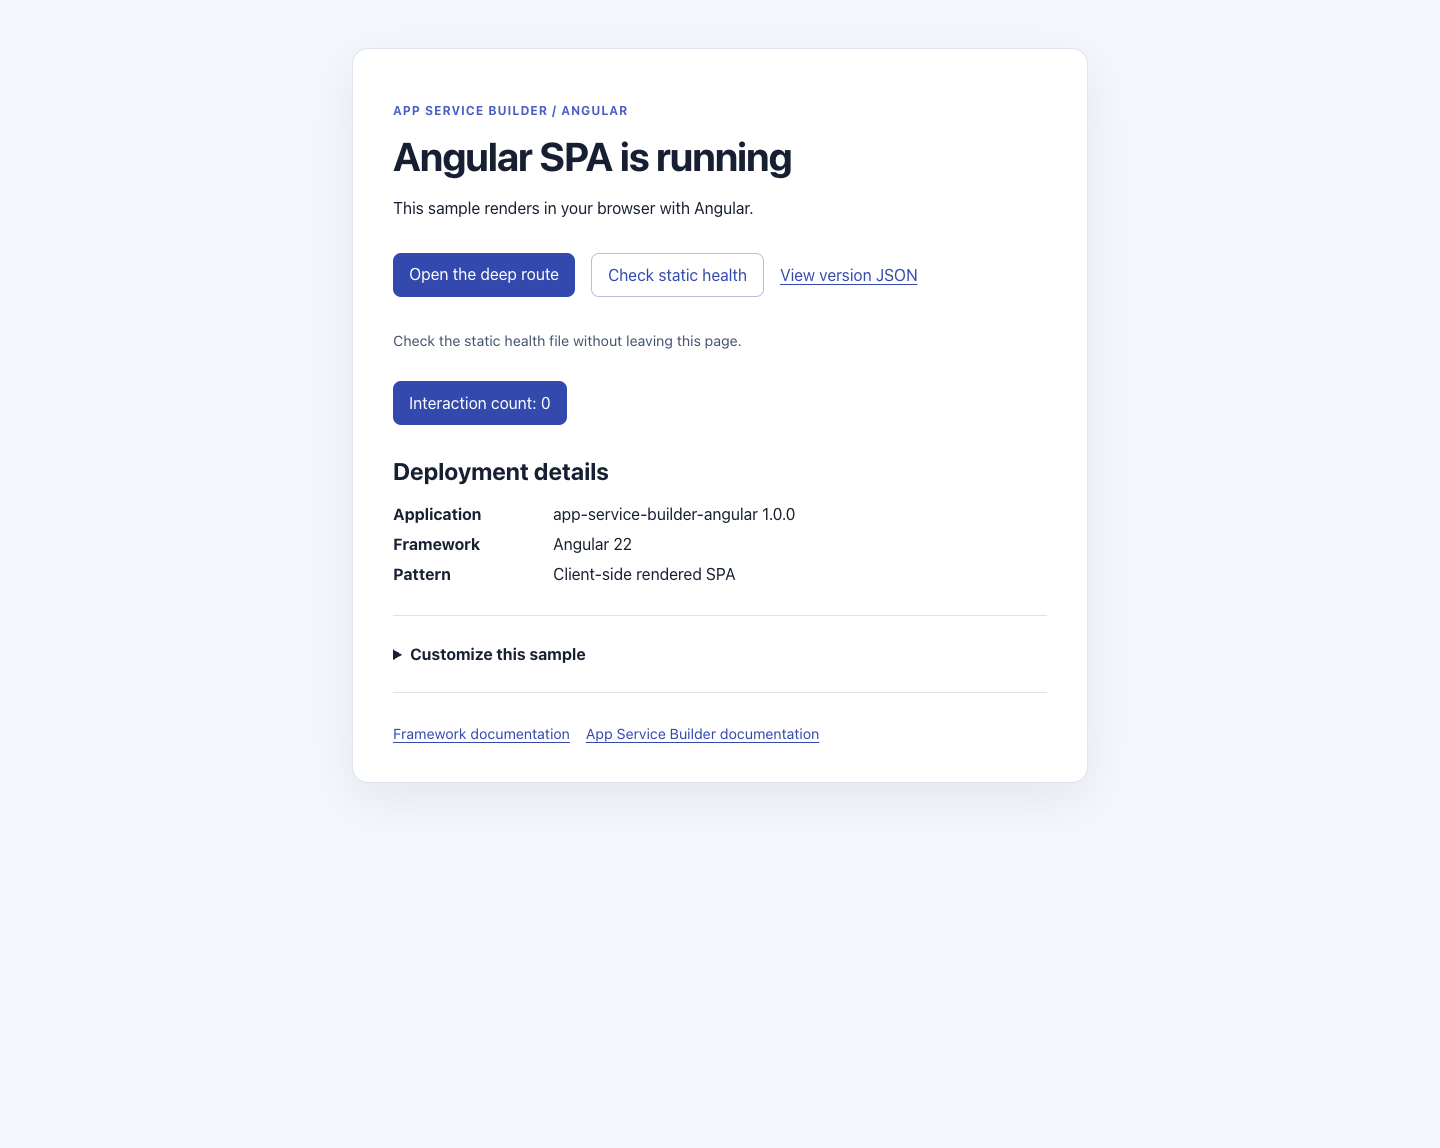
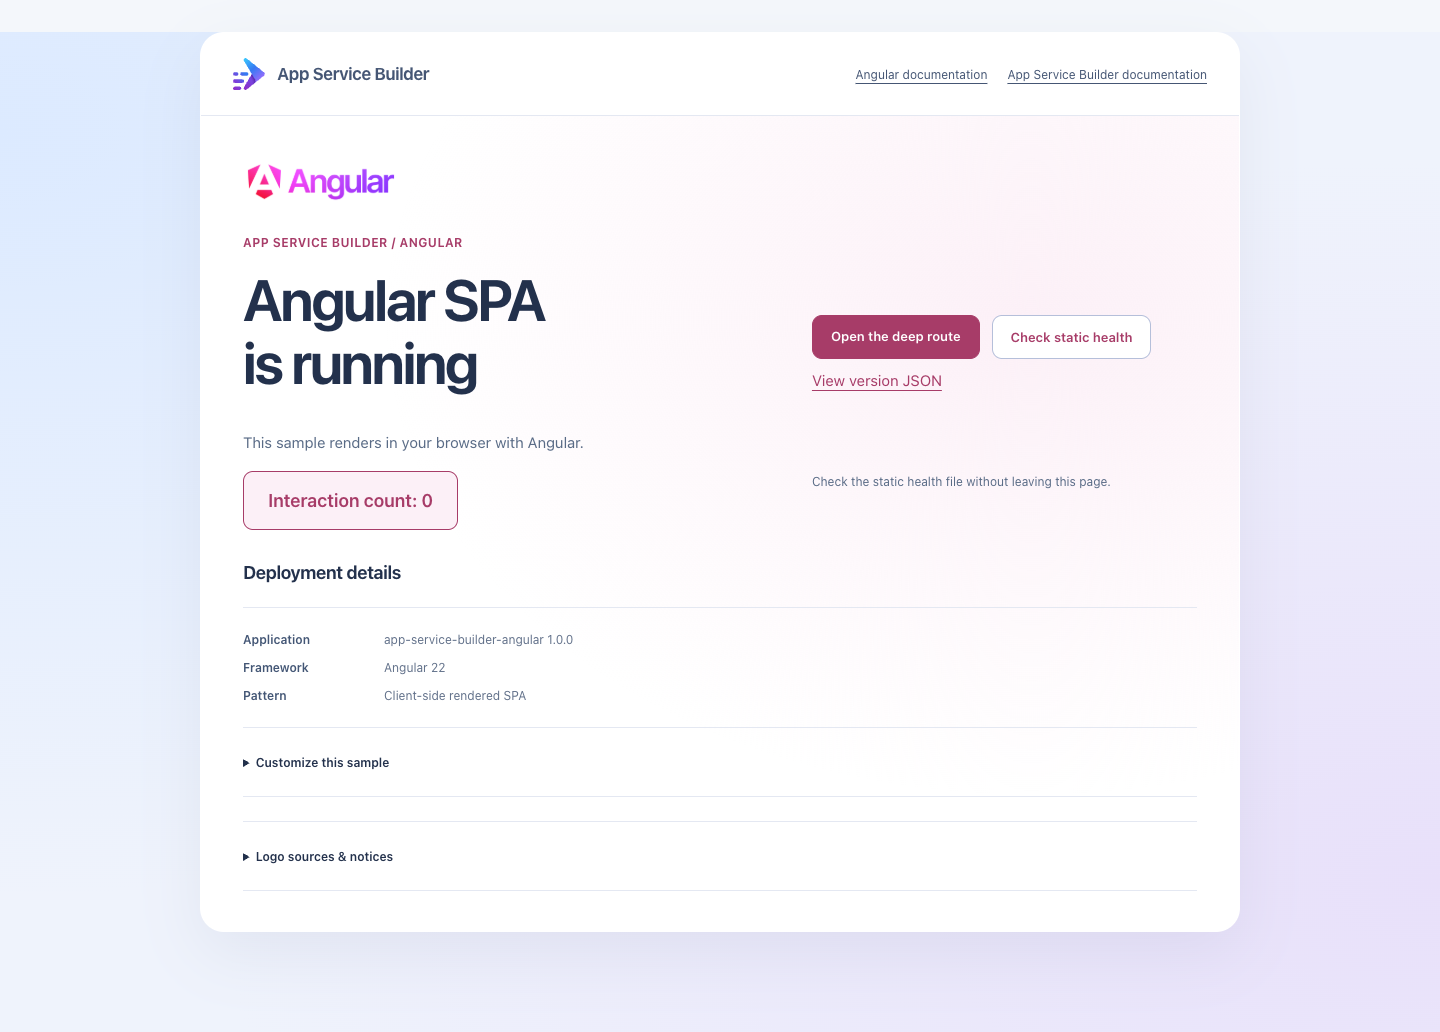
Apply approved language-family sample styling
Preserve sample interactions, inline health checks and honest customization guidance; refresh the locally rendered README screenshot.

diff --git a/public/brand/family.v1.css b/public/brand/family.v1.css
@@ -1,0 +1,38 @@
+html body{margin:0;min-height:100vh;background:radial-gradient(ellipse at 0 10%,#dceaff,transparent 60%),radial-gradient(ellipse at 100% 85%,#e8e0fa,transparent 60%),#eff3fc;color:#23314c;font-family:"Segoe UI",system-ui,sans-serif;font-size:15px;--accent:#a73c68;--line:#e4e8f2}
+main.sample-sheet{width:min(1040px,calc(100% - 64px));margin:32px auto;padding:0;background:#fff;border:1px solid #ffffffbd;border-radius:24px;box-shadow:0 22px 65px #3b487515;overflow:hidden}
+.sample-header{display:flex;align-items:center;justify-content:space-between;gap:24px;padding:25px 32px;border-bottom:1px solid var(--line)}
+.sample-brand{display:flex;align-items:center;gap:12px;font-size:17px;font-weight:650;letter-spacing:-.02em;color:#23314c;text-decoration:none}
+.sample-brand img{width:32px;height:32px;object-fit:contain}
+.sample-header nav{display:flex;flex-wrap:wrap;gap:20px;margin:0;font-size:12px}
+.sample-header a{color:#455674;text-underline-offset:4px}
+.sample-content{padding:40px 42px}
+.ecosystem-logo{display:flex;align-items:center;gap:14px;margin-bottom:24px;color:var(--accent);font-size:23px;font-weight:650;letter-spacing:-.03em}
+.ecosystem-logo img{width:52px;height:52px;object-fit:contain}
+.ecosystem-logo img.wordmark{width:156px}
+.sample-content h1{font-size:clamp(32px,4.4vw,58px);line-height:1.09;letter-spacing:-.04em;font-weight:650;margin:0 0 20px;text-wrap:balance}
+.sample-content h2{font-size:18px;font-weight:650;letter-spacing:-.02em;margin:0 0 14px}
+.sample-content p{line-height:1.8;color:#596b86}
+.sample-content .eyebrow{color:var(--accent);font-size:12px;font-weight:650;letter-spacing:.04em;margin:0 0 14px}
+.sample-content nav{display:flex;flex-wrap:wrap;align-items:center;gap:12px;margin:24px 0 16px}
+.sample-content a{color:var(--accent);text-underline-offset:4px}
+.sample-content button,.sample-content .button{min-height:44px;padding:12px 18px;border:1px solid var(--accent);border-radius:10px;background:var(--accent);color:#fff;font:inherit;font-size:13px;font-weight:600;text-decoration:none;cursor:pointer}
+.sample-content button.secondary{background:#fff;color:var(--accent)}
+.sample-content button:hover,.sample-content .button:hover{filter:brightness(.92)}
+.sample-content button:disabled{opacity:.6;cursor:wait}
+.sample-content .health-result{font-size:12px;line-height:1.8;min-height:24px}
+.sample-content dl{display:grid;gap:13px;margin:24px 0 0;padding-top:24px;border-top:1px solid var(--line);font-size:12px}
+.sample-content dl div{display:grid;grid-template-columns:125px 1fr;gap:16px}
+.sample-content dt{color:#435675;font-weight:600}
+.sample-content dd{margin:0;color:#62718a;overflow-wrap:anywhere}
+.sample-content details{margin-top:24px;padding:12px 0;border-block:1px solid var(--line);font-size:12px}
+.sample-content summary{cursor:pointer;font-weight:600;min-height:44px;align-content:center}
+.sample-content code{font-size:12px;overflow-wrap:anywhere}
+.sample-content .documentation{font-size:12px;justify-content:space-between}
+a:focus-visible,button:focus-visible,summary:focus-visible{outline:3px solid #7660d0;outline-offset:4px}
+.sample-content{display:grid;grid-template-columns:minmax(0,1.15fr) minmax(0,.85fr);column-gap:48px;background:radial-gradient(ellipse at 80% 25%,#fcf0f7,transparent 55%),#fff}
+.sample-content>*{grid-column:1}
+.sample-content>nav:not(.documentation){grid-column:2;grid-row:2/5;align-content:center;margin:0}
+.sample-content>.health-result{grid-column:2;grid-row:5;font-size:12px}
+.sample-content>.button{grid-column:1;justify-self:start;background:#fcf0f7;color:var(--accent);padding:18px 24px;margin-bottom:32px;font-size:18px}
+.sample-content>section,.sample-content>details,.sample-content>.documentation{grid-column:1/-1}
+@media(max-width:650px){main.sample-sheet{width:calc(100% - 30px);margin:18px auto;border-radius:19px}.sample-header{padding:22px;flex-wrap:wrap;gap:18px}.sample-header nav{width:100%;justify-content:space-between;gap:12px;font-size:11px}.sample-content{display:block;padding:32px 22px}.sample-content h1{font-size:36px}.sample-content dl div{grid-template-columns:1fr;gap:4px}.sample-content nav{align-items:stretch}.sample-content .documentation{gap:14px}.sample-content>nav:not(.documentation){margin:24px 0 16px}}

diff --git a/src/app/pages/home.ts b/src/app/pages/home.ts
@@ -5,7 +5,16 @@ import { RouterLink } from '@angular/router';
   selector: 'app-home',
   imports: [RouterLink],
   template: `
-    <main>
+    <main class="sample-sheet">
+      <header class="sample-header">
+        <a class="sample-brand" routerLink="/"><img src="/brand/builder.svg" alt="" width="32" height="32">App Service Builder</a>
+        <nav aria-label="Documentation">
+          <a href="https://angular.dev/">Angular documentation</a>
+          <a href="https://builder.appservice.azure.com/docs/">App Service Builder documentation</a>
+        </nav>
+      </header>
+      <div class="sample-content">
+      <div class="ecosystem-logo"><img class="wordmark" src="/brand/angular.png" alt="Angular" width="156" height="52"></div>
       <p class="eyebrow">App Service Builder / Angular</p>
       <h1>Angular SPA is running</h1>
       <p>
@@ -36,13 +45,16 @@ import { RouterLink } from '@angular/router';
       <details>
         <summary>Customize this sample</summary>
         <p>In your fork, edit the home page in <code>src/app/pages/home.ts</code>
-          and the styles in <code>src/styles.css</code>. Commit your changes and
+          and the visual-family styles in <code>public/brand/family.v1.css</code>. Commit your changes and
           deploy your fork through your Builder App.</p>
       </details>
-      <nav class="documentation" aria-label="Documentation">
-        <a href="https://angular.dev/">Framework documentation</a>
-        <a href="https://builder.appservice.azure.com/docs/">App Service Builder documentation</a>
-      </nav>
+      <details>
+        <summary>Logo sources &amp; notices</summary>
+        <p>Unmodified <a href="https://angular.dev/press-kit">Angular press-kit artwork</a>
+          identifies this framework. Angular is a trademark of Google LLC.
+          App Service Builder uses its supplied official mark. No endorsement implied.</p>
+      </details>
+      </div>
     </main>
   `,
 })

diff --git a/src/app/app.spec.ts b/src/app/app.spec.ts
@@ -30,6 +30,9 @@ describe('App', () => {
     expect(compiled.querySelector('.eyebrow')?.textContent).toContain(
       'App Service Builder / Angular',
     );
+    const docs = compiled.querySelector('nav[aria-label="Documentation"]');
+    expect(docs?.querySelector('a[href="https://angular.dev/"]')?.textContent).toBe('Angular documentation');
+    expect(docs?.querySelector('a[href="https://builder.appservice.azure.com/docs/"]')?.textContent).toBe('App Service Builder documentation');
   });
 
   it('should increment the interaction counter', async () => {

diff --git a/src/index.html b/src/index.html
@@ -3,6 +3,7 @@
 <head>
   <meta charset="utf-8">
   <title>App Service Builder: Angular sample</title>
+  <link rel="stylesheet" href="/brand/family.v1.css">
   <base href="/">
   <meta name="viewport" content="width=device-width, initial-scale=1">
   <meta

diff --git a/README.md b/README.md
@@ -16,8 +16,21 @@ success or regional availability.
 
 ![Angular root page with deep-route navigation, an interactive counter, inline static health feedback, and customization help](docs/images/sample.png)
 
-Rendered locally at `/` with the production build configuration and sample
-settings. This screenshot is not evidence of an Azure deployment.
+**LOCAL — Microsoft Edge, 1440px desktop, root `/`, production static build.**
+This screenshot is not evidence of an Azure deployment.
+
+The Angular split composition keeps its signal counter, Angular Router paths,
+and inline static-file health check. Edit `src/app/pages/home.ts` for content
+and `public/brand/family.v1.css` for the visual family; baseline styles remain
+in `src/styles.css`.
+
+### Logo provenance
+
+`public/brand/builder.svg` is the supplied official App Service Builder mark.
+`public/brand/angular.png` is the unmodified [official Angular gradient wordmark](https://angular.dev/assets/images/press-kit/angular_wordmark_gradient.png)
+from the [Angular press kit](https://angular.dev/press-kit).
+Angular is a trademark of Google LLC. Logos identify the stack; no endorsement
+is implied.
 
 The starter UI lives at `/`. **Check static health** reads `/health.json` and
 displays the result in place, including failures and retry guidance. A reachable
